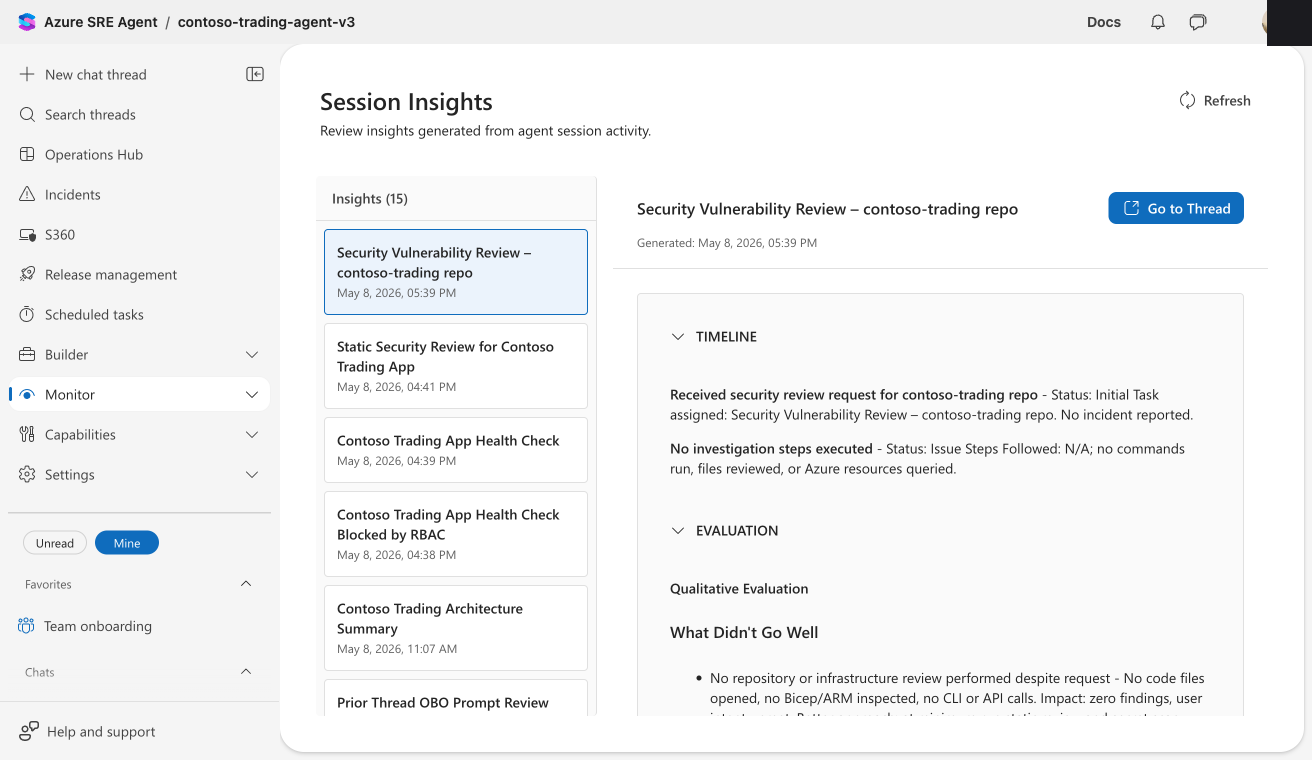
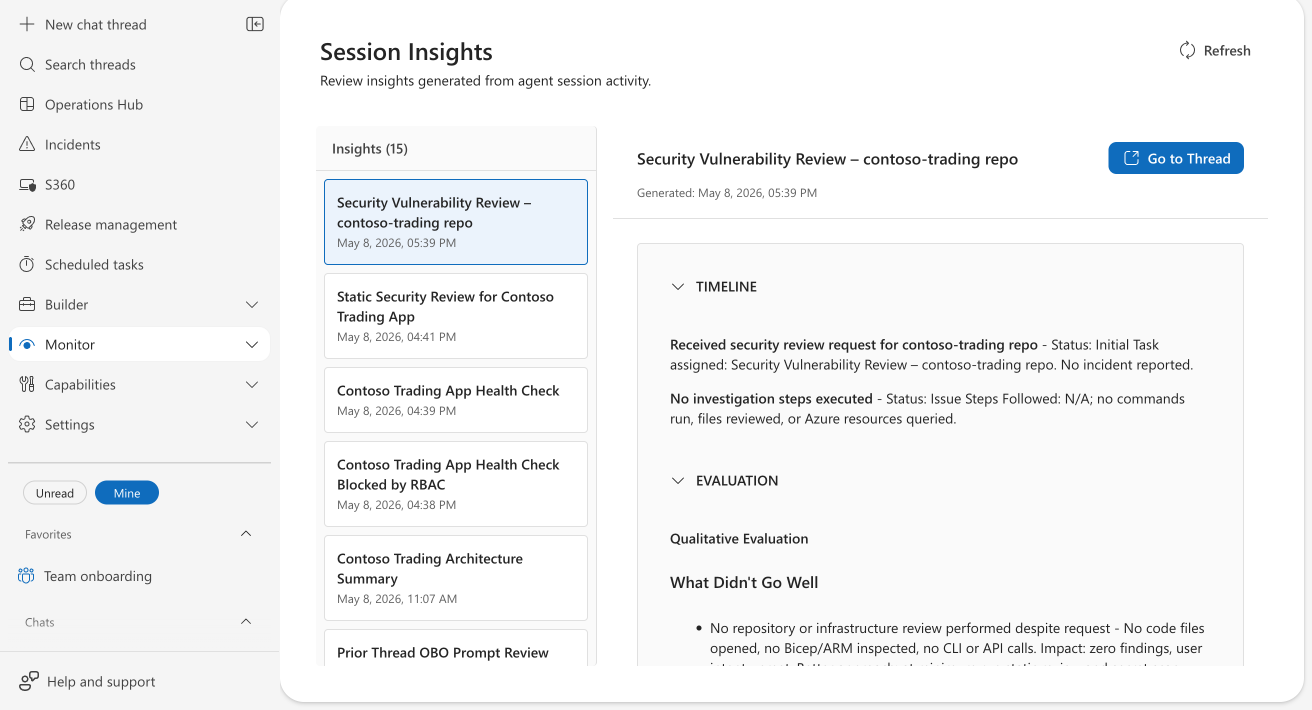
image updates

diff --git a/articles/sre-agent/track-incident-value.md b/articles/sre-agent/track-incident-value.md
@@ -13,14 +13,6 @@ ms.custom: incidents, metrics, value, daily reports, response plans, analytics, 
 
 # Track incident value in Azure SRE Agent
 
-> [!TIP]
-> - See your agent's mitigation rate, assist rate, and pending actions with trend sparklines
-> - Track Intent Met — a 1–5 quality score across incidents, scheduled tasks, and conversations
-> - Drill into each response plan to identify which automation strategies resolve the most incidents
-> - Receive automated daily reports covering security findings, resource health, and incident summaries
-
-## The problem: proving your agent is working
-
 You deployed an AI agent to handle incidents. Leadership wants to know: *Is it reducing toil? Which incidents is it resolving on its own? Are we getting ROI?*
 
 Answering those questions today means querying telemetry, cross-referencing tickets, and guessing which response plans work. There's no single view showing what your agent did, how each response plan performed, or whether mitigation rates are improving.
@@ -29,7 +21,7 @@ Answering those questions today means querying telemetry, cross-referencing tick
 
 Navigate to **Monitor** > **Incident metrics** to see the dashboard.
 
-![Incident metrics dashboard showing five stat cards with sparkline trends and an incident summary line chart](media/track-incident-value/incident-metrics-dashboard.png)
+:::image type="content" source="media/track-incident-value/incident-metrics-dashboard.png" alt-text="Screenshot of incident metrics dashboard showing five stat cards with sparkline trends and an incident summary line chart" lightbox="media/track-incident-value/incident-metrics-dashboard.png":::
 
 ### Metric cards
 
@@ -114,6 +106,3 @@ Incident tracking is built-in — open **Monitor** > **Incident metrics** once y
 | [Monitor agent usage](monitor-agent-usage.md) | Track AAU consumption alongside incident metrics |
 | [Review agent insights](review-agent-insights.md) | Per-thread qualitative evaluation of agent performance |
 | [Audit agent actions](audit-agent-actions.md) | Review specific actions during incident investigations |
-```
-
----

diff --git a/articles/sre-agent/monitor-agent-usage.md b/articles/sre-agent/monitor-agent-usage.md
@@ -21,7 +21,7 @@ View your AAU usage at **Settings** > **Agent consumption**.
 
 Azure SRE Agent billing is measured in Azure Agent Units (AAU). Your monthly allocation includes both a fixed **always-on flow** and a variable **active flow** that you can adjust. The consumption page breaks down your usage by thread type so you can see exactly where your AAUs are going.
 
-:::image type="content" source="media/monitor-agent-usage/consumption-summary-daily.png" alt-text="Screenshot of the SRE Agent agent consumption page showing donut chart with total active flow consumption":::
+:::image type="content" source="media/monitor-agent-usage/consumption-summary-daily.png" alt-text="Screenshot of the SRE Agent agent consumption page showing donut chart with total active flow consumption" lightbox="media/monitor-agent-usage/consumption-summary-daily.png":::
 
 ### What the consumption page shows
 
@@ -62,7 +62,7 @@ Each thread title is a link - select it to open the full conversation thread.
 
 Select **Download** next to the **Refresh** button above the charts to export the currently visible threads as a CSV file. The export includes thread title, type, AAUs consumed, status, last active date, and thread ID. All active filters are respected, so you can export just the data you need.
 
-:::image type="content" source="media/monitor-agent-usage/consumption-thread-table.png" alt-text="Screenshot of consumption by thread table in Azure SRE Agent showing thread titles, types, AAU counts, status badges, and last active dates with filter controls":::
+:::image type="content" source="media/monitor-agent-usage/consumption-thread-table.png" alt-text="Screenshot of consumption by thread table in Azure SRE Agent showing thread titles, types, AAU counts, status badges, and last active dates with filter controls" lightbox="media/monitor-agent-usage/consumption-thread-table.png":::
 
 ### Adjusting your allocation
 

diff --git a/articles/sre-agent/review-agent-insights.md b/articles/sre-agent/review-agent-insights.md
@@ -32,11 +32,11 @@ Your agent automatically generates a structured insight after each conversation 
 
 Go to **Monitor** > **Session Insights**. The dashboard shows a list of insights on the left (newest first) and the full detail on the right.
 
-![Session Insights dashboard showing a list of 15 insights on the left panel and the selected insight's timeline and evaluation on the right panel](media/review-session-insights/session-insights-overview.png)
+:::image type="content" source="media/review-session-insights/session-insights-overview.png" alt-text="Screenshot of SRE Agent session insights dashboard" lightbox="media/review-session-insights/session-insights-overview.png":::
 
 Select any insight to view its Timeline, Evaluation, and Derived Learning in expandable sections. Each insight also has a **Go to Thread** button to open the original conversation.
 
-![Insight detail showing a timeline of an App Service 403 investigation with milestones for checking frontend code, discovering live URLs, confirming 403 blocks, and identifying network lockdown configuration](media/review-session-insights/session-insights-detail.png)
+:::image type="content" source="media/review-session-insights/session-insights-detail.png" alt-text="Screenshot of SRE Agent insight detail showing a timeline of an App Service 403 investigation with milestones for checking frontend code, discovering live URLs, confirming 403 blocks, and identifying network lockdown configuration" lightbox="media/review-session-insights/session-insights-detail.png":::
 
 ## Providing feedback
 
